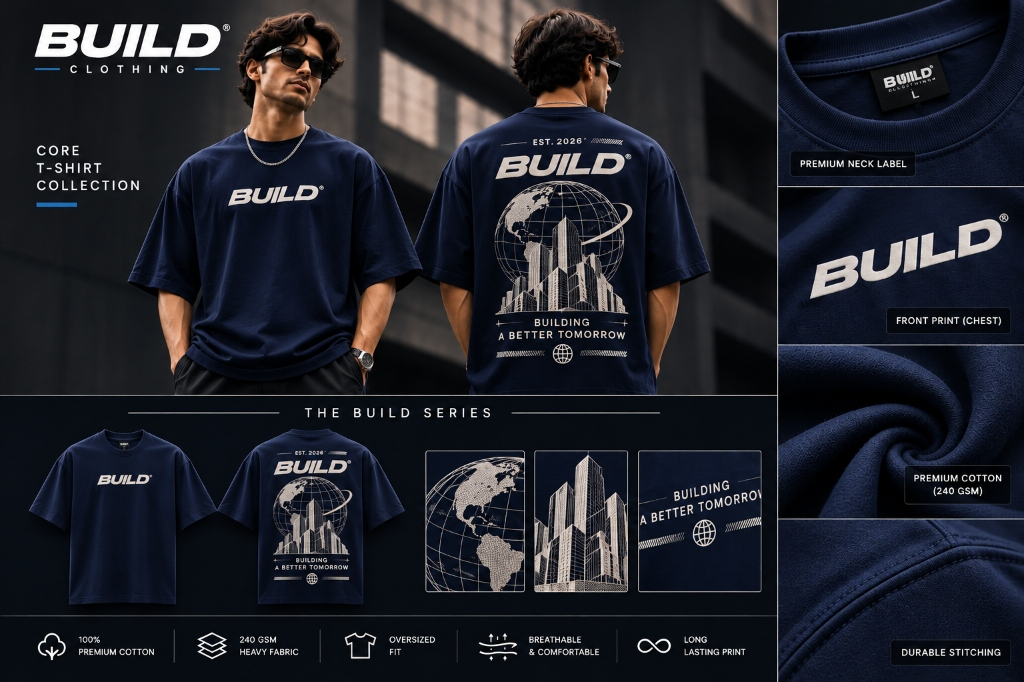
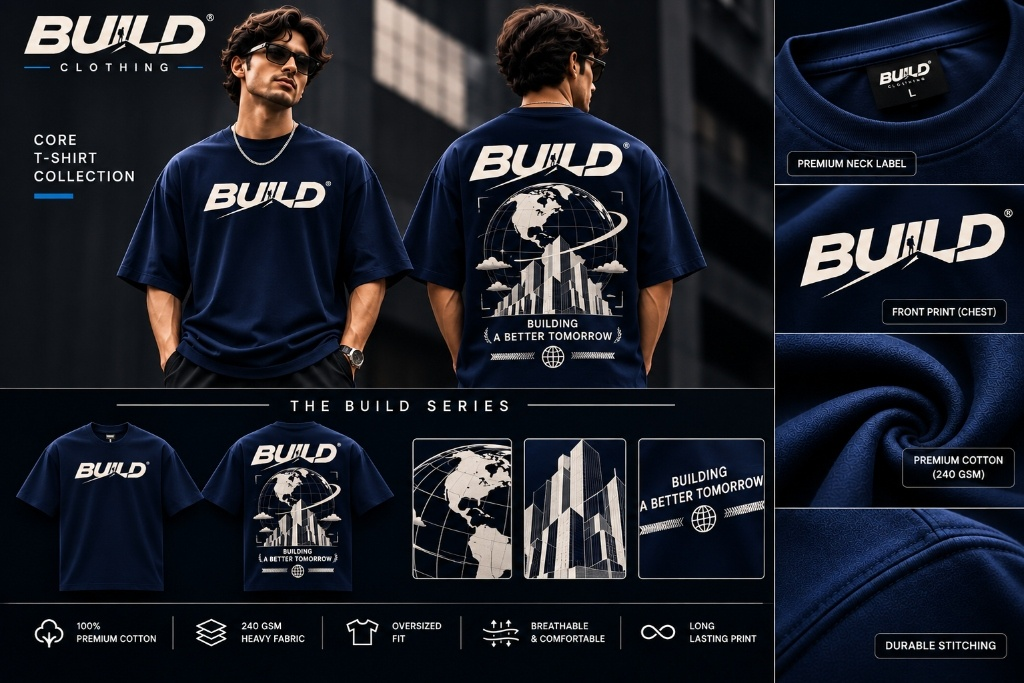
feat(media): update BUILD Series t-shirt imagery with new campaign visuals, model front/back, flatlays, and detail shots across storefront and database

diff --git a/src/app/page.tsx b/src/app/page.tsx
@@ -245,8 +245,8 @@ export default async function HomePage() {
               </div>
 
               <img
-                src="/images/stitch/custom-mockup.png"
-                alt="3D Heavyweight T-Shirt Mockup Canvas"
+                src="/images/campaign/build-series-flatlay.jpg"
+                alt="THE BUILD SERIES — Building A Better Tomorrow Collection"
                 className="max-h-full max-w-full object-contain filter drop-shadow-2xl"
               />
 

diff --git a/src/components/Navbar.tsx b/src/components/Navbar.tsx
@@ -70,9 +70,8 @@ export default function Navbar() {
 
   const navLinks: NavLinkItem[] = [
     { name: "HOME", href: "/" },
-    { name: "SHOP", href: "/shop" },
     { name: "COLLECTIONS", href: "/shop?collection=the-build-series" },
-    { name: "CUSTOM PRINT", href: "/custom-print", badge: "STUDIO" },
+    { name: "CUSTOM PRINT", href: "/custom-print" },
     { name: "LOOKBOOK", href: "/#lookbook" },
     { name: "ABOUT", href: "/#story" },
   ];

diff --git a/src/components/StoryCategories.tsx b/src/components/StoryCategories.tsx
@@ -37,7 +37,7 @@ const categories: CategoryTile[] = [
     name: "CUSTOM PRINT",
     subtitle: "1200 DPI DTG Lab",
     href: "/custom-print",
-    image: "/images/stitch/custom-mockup.png",
+    image: "/images/campaign/build-series-flatlay.jpg",
     badge: "STUDIO",
   },
   {

diff --git a/scripts/process-new-tee-images.py b/scripts/process-new-tee-images.py
@@ -1,0 +1,78 @@
+import os
+from PIL import Image
+
+def process():
+    print("--- Processing New BUILD Series Images ---")
+    
+    beige_raw = "C:/Users/Suraj Yadav/.gemini/antigravity/brain/e1f52910-a517-4ed6-bcaa-42943466ec1c/.user_uploaded/media_1795258987899_404af8e6.jpg"
+    maroon_raw = "C:/Users/Suraj Yadav/.gemini/antigravity/brain/e1f52910-a517-4ed6-bcaa-42943466ec1c/.user_uploaded/media_1795258987950_6a08b306.jpg"
+    master_raw = "C:/Users/Suraj Yadav/.gemini/antigravity/brain/e1f52910-a517-4ed6-bcaa-42943466ec1c/.user_uploaded/media_1795258987968_b6683284.jpg"
+    navy_raw = "C:/Users/Suraj Yadav/.gemini/antigravity/brain/e1f52910-a517-4ed6-bcaa-42943466ec1c/.user_uploaded/media_1795258987987_4a4a4591.jpg"
+
+    prod_dir = "public/images/products"
+    camp_dir = "public/images/campaign"
+    os.makedirs(prod_dir, exist_ok=True)
+    os.makedirs(camp_dir, exist_ok=True)
+
+    # 1. Save Full Campaign Boards
+    Image.open(beige_raw).save(os.path.join(camp_dir, "build-series-sand.jpg"), quality=95)
+    Image.open(maroon_raw).save(os.path.join(camp_dir, "build-series-burgundy.jpg"), quality=95)
+    Image.open(navy_raw).save(os.path.join(camp_dir, "build-series-navy.jpg"), quality=95)
+    Image.open(master_raw).save(os.path.join(camp_dir, "build-series-flatlay.jpg"), quality=95)
+    print("Saved 4 campaign boards to public/images/campaign/")
+
+    # 2. Extract crops for each color
+    color_map = [
+        ("sand", beige_raw),
+        ("burgundy", maroon_raw),
+        ("navy", navy_raw)
+    ]
+
+    for color_name, src_path in color_map:
+        im = Image.open(src_path)
+        w, h = im.size
+
+        # Model Front: x 105 to 415, y 0 to 388
+        model_front = im.crop((105, 0, 415, 388))
+        model_front_path = os.path.join(prod_dir, f"build-model-{color_name}-front.jpg")
+        model_front.save(model_front_path, quality=95)
+
+        # Model Back: x 395 to 770, y 0 to 388
+        model_back = im.crop((395, 0, 770, 388))
+        model_back_path = os.path.join(prod_dir, f"build-model-{color_name}-back.jpg")
+        model_back.save(model_back_path, quality=95)
+
+        # Flatlay Front: x 12 to 198, y 412 to 598
+        flat_front = im.crop((12, 412, 198, 598))
+        flat_front_path = os.path.join(prod_dir, f"build-series-{color_name}-front.jpg")
+        flat_front.save(flat_front_path, quality=95)
+
+        # Flatlay Back: x 192 to 385, y 412 to 598
+        flat_back = im.crop((192, 412, 385, 598))
+        flat_back_path = os.path.join(prod_dir, f"build-series-{color_name}-back.jpg")
+        flat_back.save(flat_back_path, quality=95)
+
+        # Detail: Front chest print hit: x 775 to 1024, y 185 to 345
+        chest_detail = im.crop((775, 185, 1024, 345))
+        chest_detail.save(os.path.join(prod_dir, f"build-detail-{color_name}-chest.jpg"), quality=95)
+
+        # Detail: Neck label hit: x 775 to 1024, y 0 to 185
+        neck_detail = im.crop((775, 0, 1024, 185))
+        neck_detail.save(os.path.join(prod_dir, f"build-detail-{color_name}-neck.jpg"), quality=95)
+
+        print(f"Generated product images for {color_name}:")
+        print(f"  - Model Front: {model_front.size}")
+        print(f"  - Model Back: {model_back.size}")
+        print(f"  - Flat Front: {flat_front.size}")
+        print(f"  - Flat Back: {flat_back.size}")
+
+    # Extract Back Architectural Artwork Globe from master or navy board
+    im_navy = Image.open(navy_raw)
+    artwork_crop = im_navy.crop((400, 412, 750, 600))
+    artwork_crop.save(os.path.join(camp_dir, "build-artwork.jpg"), quality=95)
+    print("Saved build-artwork.jpg to campaign/")
+
+    print("--- Finished Image Processing Successfully! ---")
+
+if __name__ == "__main__":
+    process()
